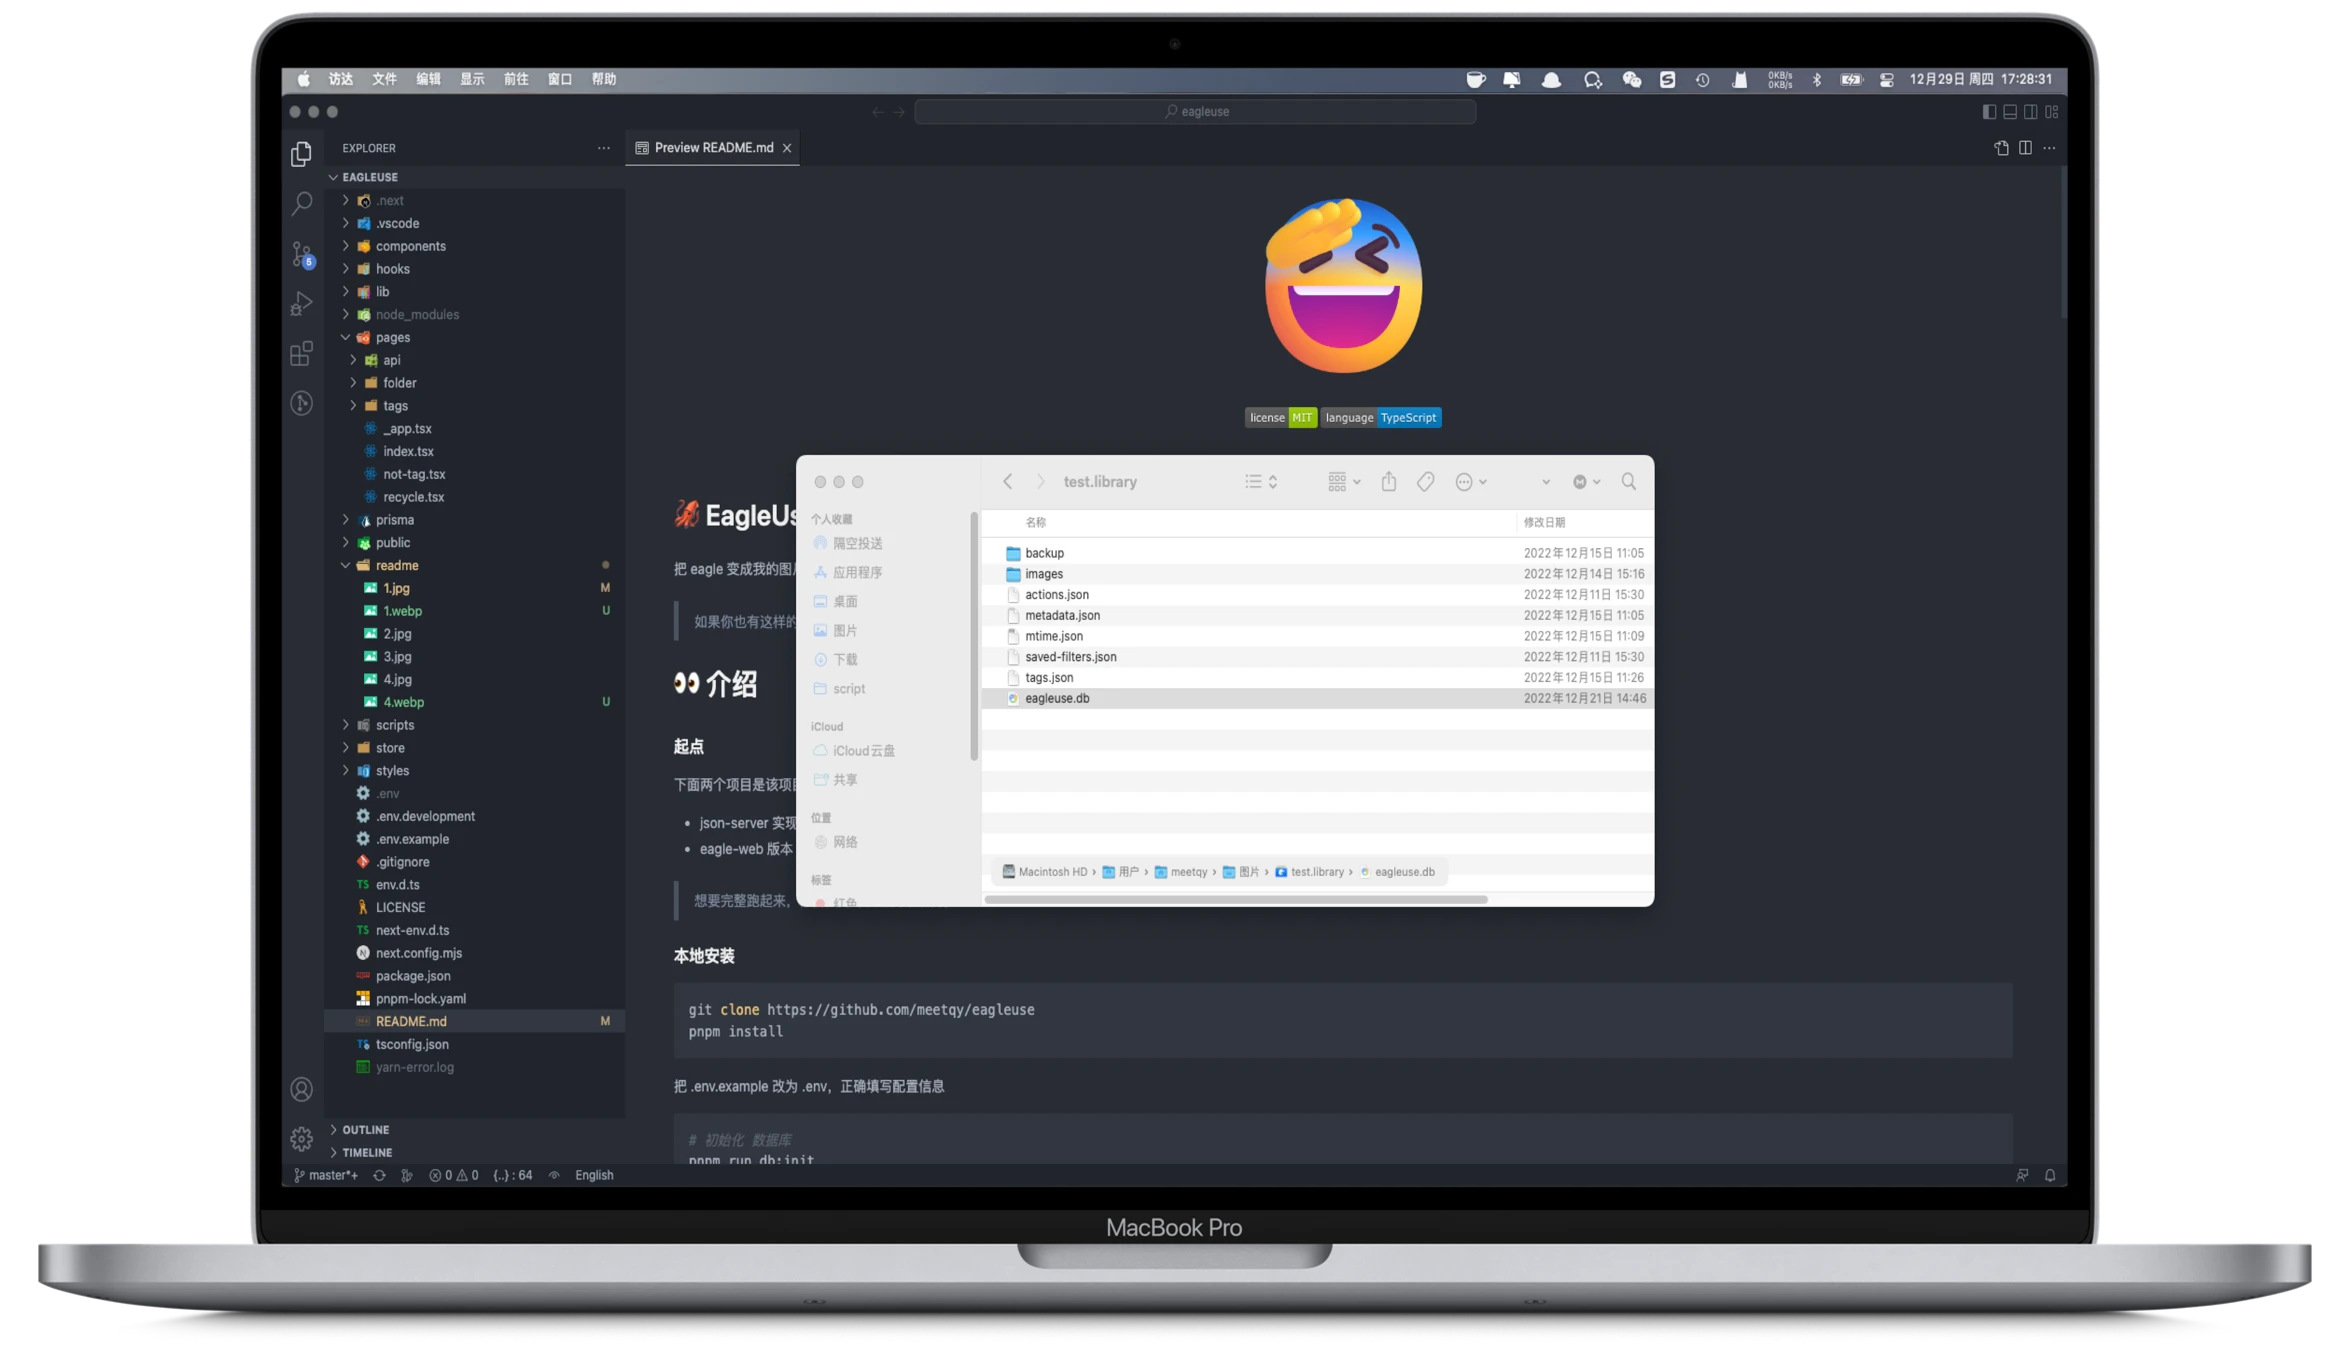
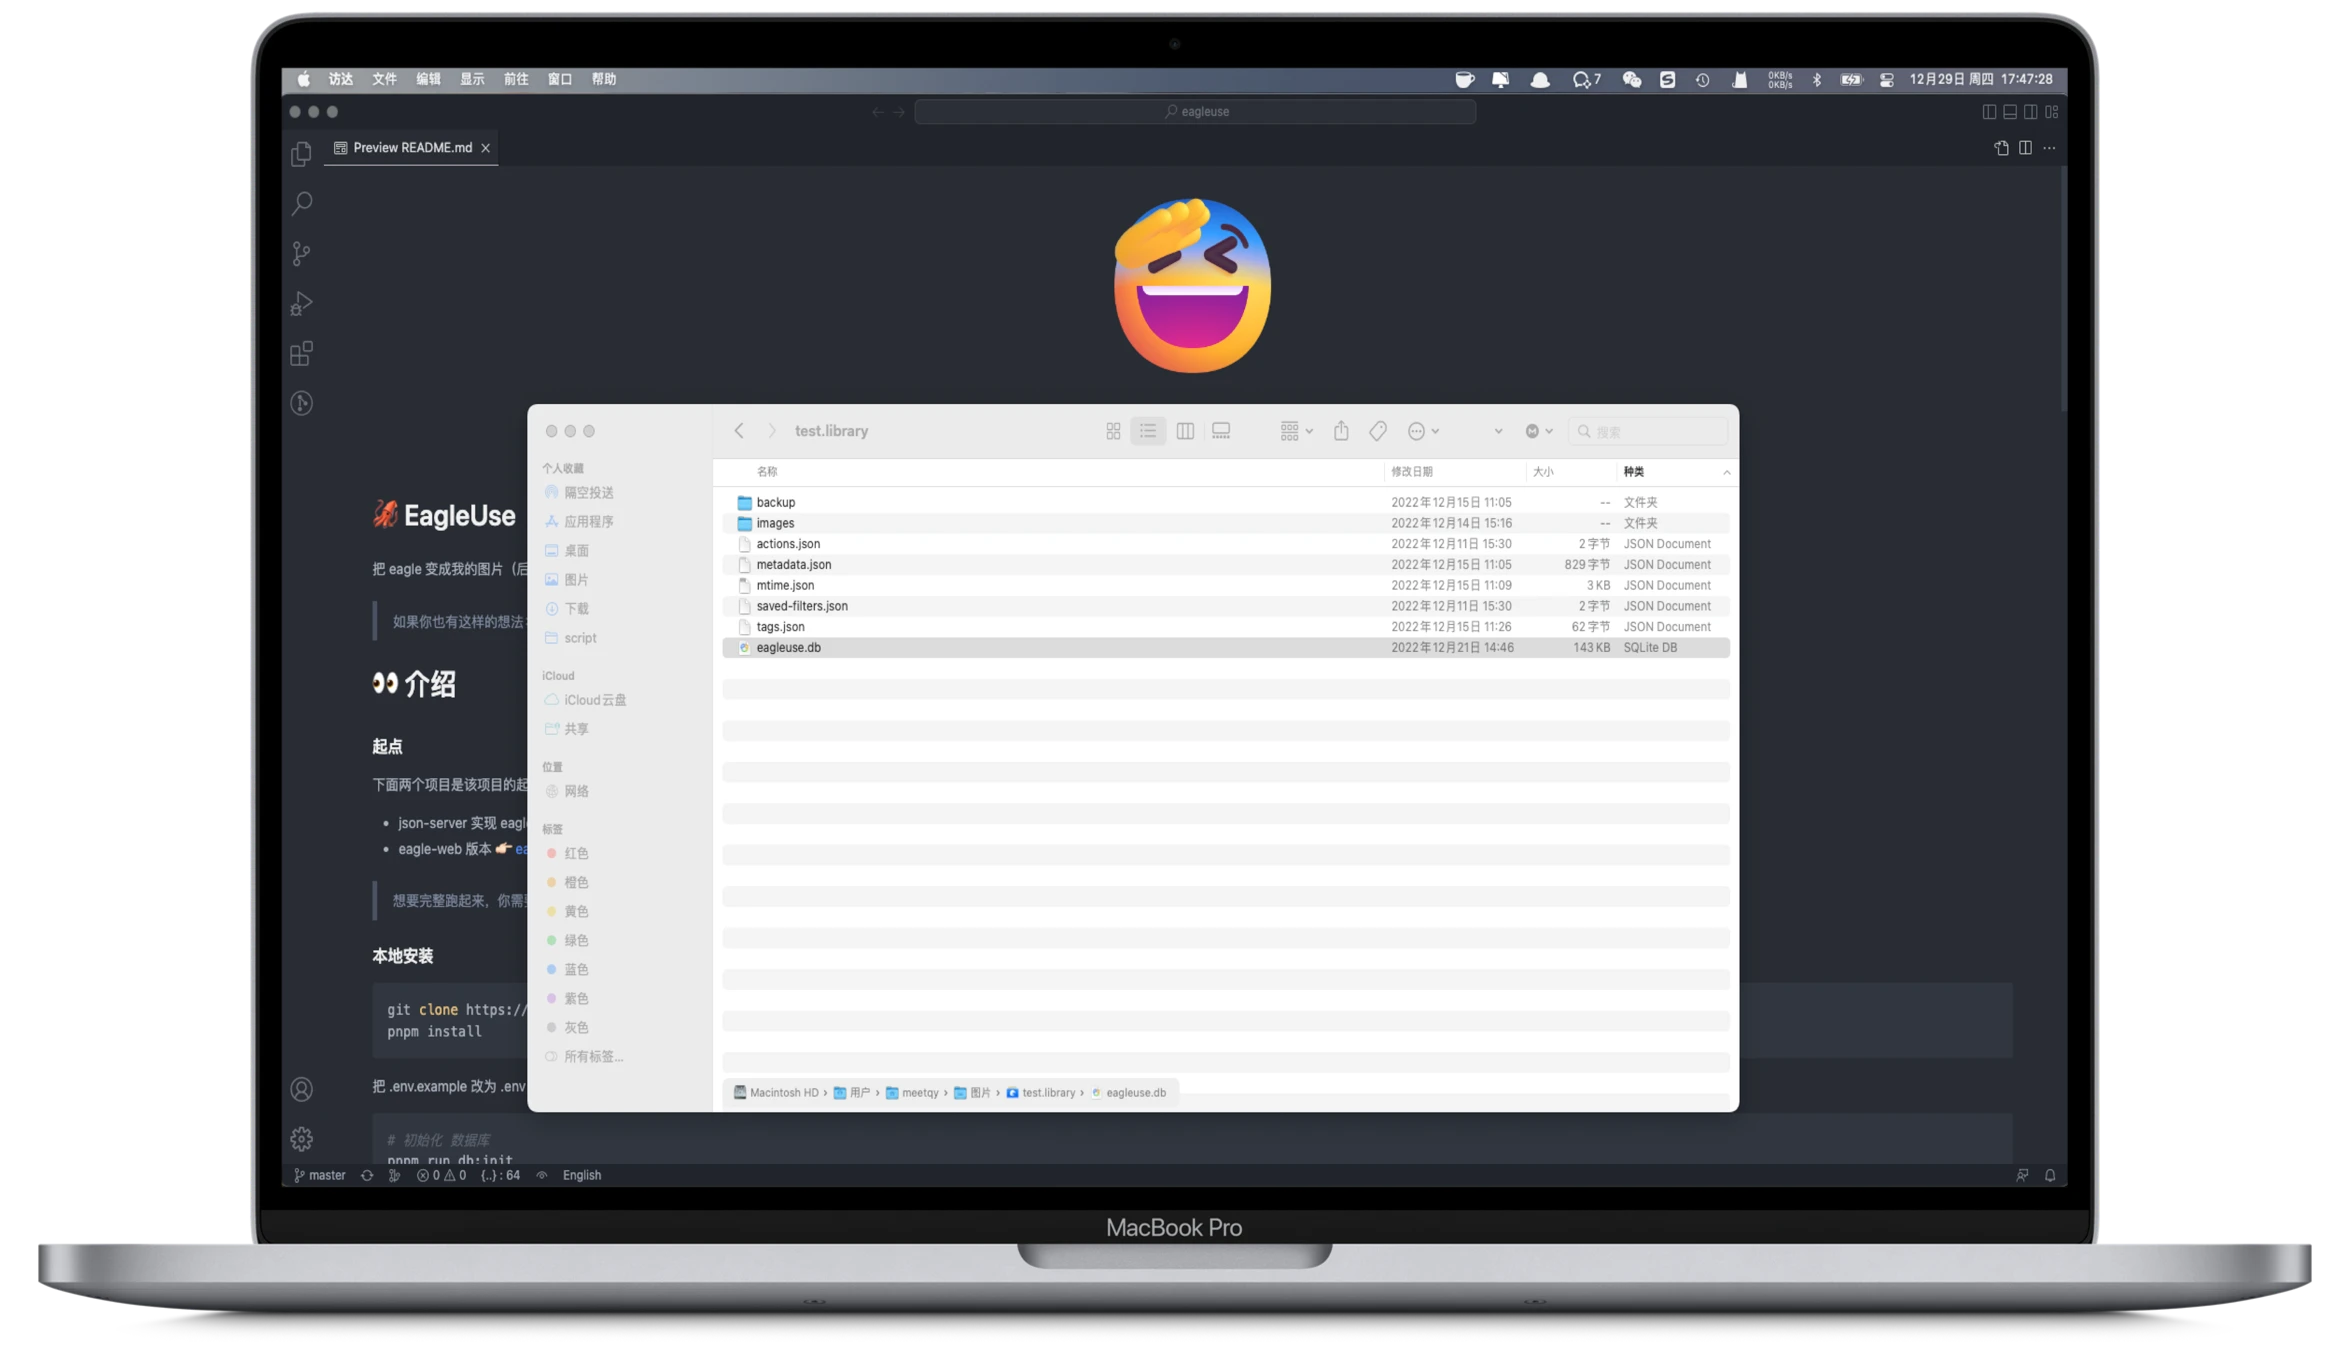
chore: readme

diff --git a/README.md b/README.md
@@ -54,10 +54,10 @@ pnpm run dev
 
 # 📷 截图
 
-|                    Left                     |                        Right                         |
-| :-----------------------------------------: | :--------------------------------------------------: |
-|   ![](./readme/1.webp?raw=true)<br/>首页    |  ![](./readme/2.webp?raw=true)<br/>可视化数据&结构   |
-| ![](./readme/4.webp?raw=true) <br/>标签管理 | ![](./readme/3.webp?raw=true)<br/>方便数据管理及迁移 |
+|                    Left                     |                                 Right                                  |
+| :-----------------------------------------: | :--------------------------------------------------------------------: |
+|   ![](./readme/1.webp?raw=true)<br/>首页    |           ![](./readme/2.webp?raw=true)<br/>可视化数据&结构            |
+| ![](./readme/4.webp?raw=true) <br/>标签管理 | ![](./readme/3.webp?raw=true)<br/>只有一个 DB 文件，方便数据管理及迁移 |
 
 # 📚 功能列表
 
